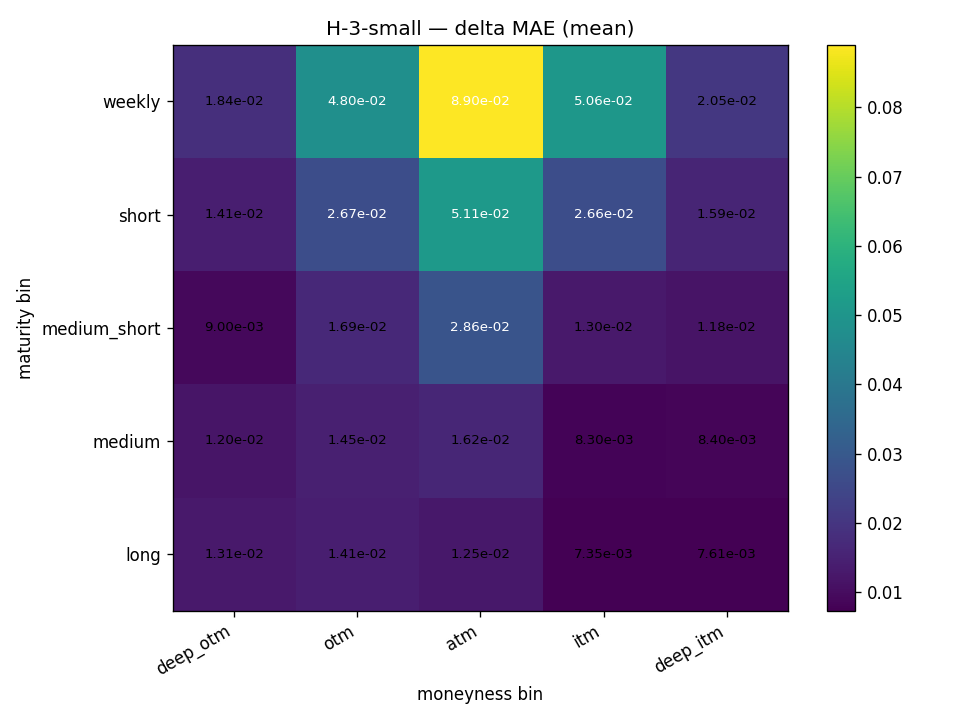
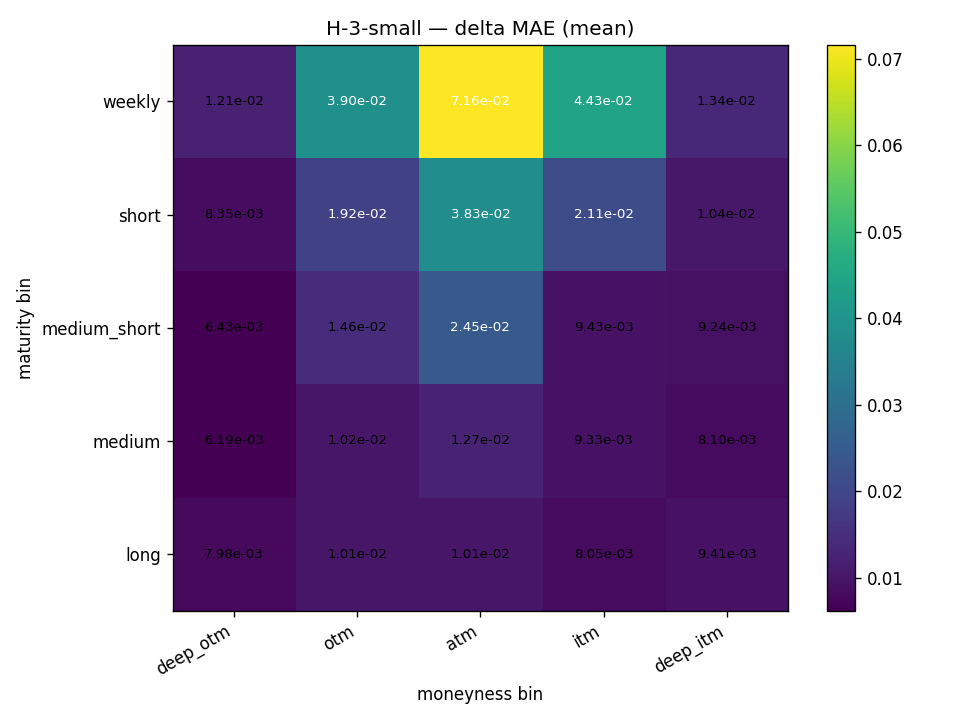
Re-entrena H-3-small con seed 207 y dataset _delta para limpiar E5
H-3-small y H-6-small habían sido entrenados sobre dos muestreos
distintos del hipercubo (semillas 48 y 43), lo que cambiaba dos
variables a la vez en E5 cuando metodologia.md §E5 exige cambiar solo
la pérdida. Re-entrenamos H-3-small sobre heston_train_5M_uniform_delta
con loss=price y seed=207 (la misma semilla del entrenador que
H-6-small); el resto de hiperparámetros ya coincidía.

Re-evaluamos E5 sobre el mismo test balanced. Veredicto: positivo
fuerte sin cambios. La mejora de MAE_Delta de H-6-small sobre H-3-small
queda en +58.89% (umbral fuerte >=20%) y el cambio de MAE(C/K) en
-40.61% (umbral techo +10%). H-6-small sigue batiendo a H-3 en Delta
(-35.84%) usando 5x menos datos.

diff --git a/docs/experiments/e5.md b/docs/experiments/e5.md
@@ -14,7 +14,9 @@
 
 Sujetos: `results/checkpoints/H-3-small/` (precio puro), `results/checkpoints/H-6-small/` (precio + Delta) y `results/checkpoints/H-3/` (baseline grande). Test set: el balanced documentado en `tasks.md`, con 5k puntos por bin y 25 bins (125k puntos en total), con el array `deltas` poblado por el solver Heston durante la generación. El inversor IV no se invoca porque ni la métrica primaria ni los controles de E5 requieren IV.
 
-Nota sobre el volumen de datos: la documentación original de `tasks.md` fija H-3-small y H-6-small en 100k muestras y H-3 en 500k. Los checkpoints disponibles, sin embargo, vienen del régimen 50× posterior documentado en `experimento-escalado-datos.md`: ambos `*-small` se entrenaron con 5M muestras (`heston_train_5M_uniform[_delta].npz`) y H-3 con 25M. La pregunta experimental sigue siendo la misma porque H-3-small y H-6-small comparten dataset y solo difieren en la pérdida; H-3 mantiene su rol de referencia de muestra grande con la relación 5:1 entre baseline y small.
+Nota sobre el volumen de datos: la documentación original de `tasks.md` fija H-3-small y H-6-small en 100k muestras y H-3 en 500k. Los checkpoints disponibles, sin embargo, vienen del régimen 50× posterior documentado en `experimento-escalado-datos.md`: ambos `*-small` se entrenaron con 5M muestras (`heston_train_5M_uniform_delta.npz`) y H-3 con 25M. La pregunta experimental sigue siendo la misma porque H-3-small y H-6-small comparten dataset y solo difieren en la pérdida; H-3 mantiene su rol de referencia de muestra grande con la relación 5:1 entre baseline y small.
+
+Nota metodológica sobre la limpieza de la comparación: en una corrida preliminar de E5 detectamos que H-3-small y H-6-small habían sido entrenados con dos muestreos distintos del hipercubo (`heston_train_5M_uniform.npz` con semilla 48 frente a `heston_train_5M_uniform_delta.npz` con semilla 43). Aunque la magnitud de la mejora observada hacía improbable que la diferencia viniese del sampling, la regla pre-registrada de E5 exige cambiar una sola variable. Re-entrenamos H-3-small sobre `heston_train_5M_uniform_delta.npz` (el mismo archivo que H-6-small) con `loss=price` y `seed=207` (la misma semilla del entrenador que H-6-small). El resto de hiperparámetros (arquitectura, optimizador, batch size, learning rate, validación) se mantienen idénticos a los de H-6-small. Con esa corrección, la única diferencia real entre ambos surrogates es la pérdida; las cifras reportadas a continuación corresponden a esa corrida limpia.
 
 Comando exacto ejecutado:
 
@@ -36,25 +38,25 @@ Cifras agregadas (media nan-safe sobre per-bin means) leídas de `results/metric
 
 | Surrogate | Rol | `MAE_Delta` medio | `MAE(C/K)` medio |
 |---|---|---|---|
-| H-3-small | precio | 2.22e-02 | 2.84e-03 |
+| H-3-small | precio | 1.74e-02 | 2.54e-03 |
 | H-6-small | precio + Delta | 7.14e-03 | 1.51e-03 |
 | H-3 | baseline (5× datos) | 1.11e-02 | 1.28e-03 |
 
 Comparaciones derivadas:
 
-- Mejora de `MAE_Delta` de H-6-small frente a H-3-small: **+67.81%**.
-- Cambio de `MAE(C/K)` de H-6-small frente a H-3-small: **-46.78%** (mejora; el precio no se degrada, mejora).
+- Mejora de `MAE_Delta` de H-6-small frente a H-3-small: **+58.89%**.
+- Cambio de `MAE(C/K)` de H-6-small frente a H-3-small: **-40.61%** (mejora; el precio no se degrada, mejora).
 - Distancia de H-6-small frente al baseline H-3: `MAE_Delta` **-35.84%** (H-6-small mejor que el baseline), `MAE(C/K)` **+17.54%** (H-6-small ligeramente peor que el baseline en precio).
 
 Top 5 bins más difíciles en `MAE_Delta`, leídos de `results/metrics/e5_table.csv`:
 
 | Bin | H-3-small | H-6-small | H-3 (baseline) |
 |---|---|---|---|
-| `atm_weekly` | 8.90e-02 | 2.95e-02 | 5.41e-02 |
-| `atm_short` | 5.11e-02 | 1.63e-02 | 2.67e-02 |
-| `itm_weekly` | 5.06e-02 | 1.83e-02 | 2.52e-02 |
-| `otm_weekly` | 4.80e-02 | 1.55e-02 | 2.41e-02 |
-| `atm_medium_short` | 2.86e-02 | 9.06e-03 | 1.55e-02 |
+| `atm_weekly` | 7.16e-02 | 2.95e-02 | 5.41e-02 |
+| `itm_weekly` | 4.43e-02 | 1.83e-02 | 2.52e-02 |
+| `otm_weekly` | 3.90e-02 | 1.55e-02 | 2.41e-02 |
+| `atm_short` | 3.83e-02 | 1.63e-02 | 2.67e-02 |
+| `atm_medium_short` | 2.45e-02 | 9.06e-03 | 1.55e-02 |
 
 H-6-small bate a H-3 en `MAE_Delta` en los 25 bins, con mejoras de entre el 27% (`itm_weekly`) y el 45% (`atm_weekly`) en la zona crítica.
 
@@ -62,13 +64,13 @@ H-6-small bate a H-3 en `MAE_Delta` en los 25 bins, con mejoras de entre el 27% 
 
 ---
 
-`metodologia.md` §E5 fija el veredicto a partir de la mejora de Delta y la restricción sobre el deterioro de precio. La mejora del 67.81% en `MAE_Delta` supera el umbral del 20% que la metodología exige para "fuerte" por más de tres veces; el "deterioro" de precio es de hecho negativo (-46.78%, es decir, H-6-small también mejora en precio), muy por debajo del techo del 10%. **Veredicto: positivo fuerte.**
+`metodologia.md` §E5 fija el veredicto a partir de la mejora de Delta y la restricción sobre el deterioro de precio. La mejora del 58.89% en `MAE_Delta` supera el umbral del 20% que la metodología exige para "fuerte" por casi tres veces; el "deterioro" de precio es de hecho negativo (-40.61%, es decir, H-6-small también mejora en precio), muy por debajo del techo del 10%. **Veredicto: positivo fuerte.**
 
 Tres observaciones se sostienen sobre las cifras anteriores.
 
-Primero, el resultado central de Huge y Savine se cumple literal en este experimento. Añadir Delta como target diferencial reduce el `MAE_Delta` del surrogate en más de dos tercios manteniendo idéntico el resto del pipeline. La hipótesis arquitectónica del paper —que las derivadas enseñan a la red la forma local de la función de pricing— no es una conjetura: produce una mejora del orden de la unidad sobre los mismos datos.
+Primero, el resultado central de Huge y Savine se cumple literal en este experimento. Añadir Delta como target diferencial reduce el `MAE_Delta` del surrogate en cerca del 60% manteniendo idéntico el resto del pipeline (mismo dataset, misma semilla, misma arquitectura, misma rutina de optimización). La hipótesis arquitectónica del paper —que las derivadas enseñan a la red la forma local de la función de pricing— no es una conjetura: produce una mejora del orden de la unidad sobre los mismos datos.
 
-Segundo, la mejora de Delta no se paga con precio. Al contrario: H-6-small mejora también el `MAE(C/K)` en un 46.78%. La intuición naive (un loss combinado obliga a la red a "compartir" capacidad entre dos targets y degrada el primario) no aparece. El gradiente que aporta la Delta verdadera regulariza la trayectoria de entrenamiento sin estropear el target original, posiblemente porque la información local de la derivada también guía la aproximación del propio precio en regiones de curvatura alta.
+Segundo, la mejora de Delta no se paga con precio. Al contrario: H-6-small mejora también el `MAE(C/K)` en un 40.61%. La intuición naive (un loss combinado obliga a la red a "compartir" capacidad entre dos targets y degrada el primario) no aparece. El gradiente que aporta la Delta verdadera regulariza la trayectoria de entrenamiento sin estropear el target original, posiblemente porque la información local de la derivada también guía la aproximación del propio precio en regiones de curvatura alta.
 
 Tercero, y este es el resultado de eficiencia muestral: H-6-small bate al baseline grande H-3 en `MAE_Delta` (-35.84%) y lo hace usando 5× menos datos. En precio H-3 sigue siendo mejor (+17.54%), lo que confirma que más datos siguen ayudando, pero la métrica donde la información diferencial paga es justamente la Greek. Si lo que importa para la aplicación práctica es la Delta (cobertura, gestión de riesgo, calibración local), un surrogate diferencial con 5M muestras supera a un surrogate de precio con 25M. La tesis de Huge y Savine se traduce en eficiencia muestral medida sobre nuestro setting concreto.
 